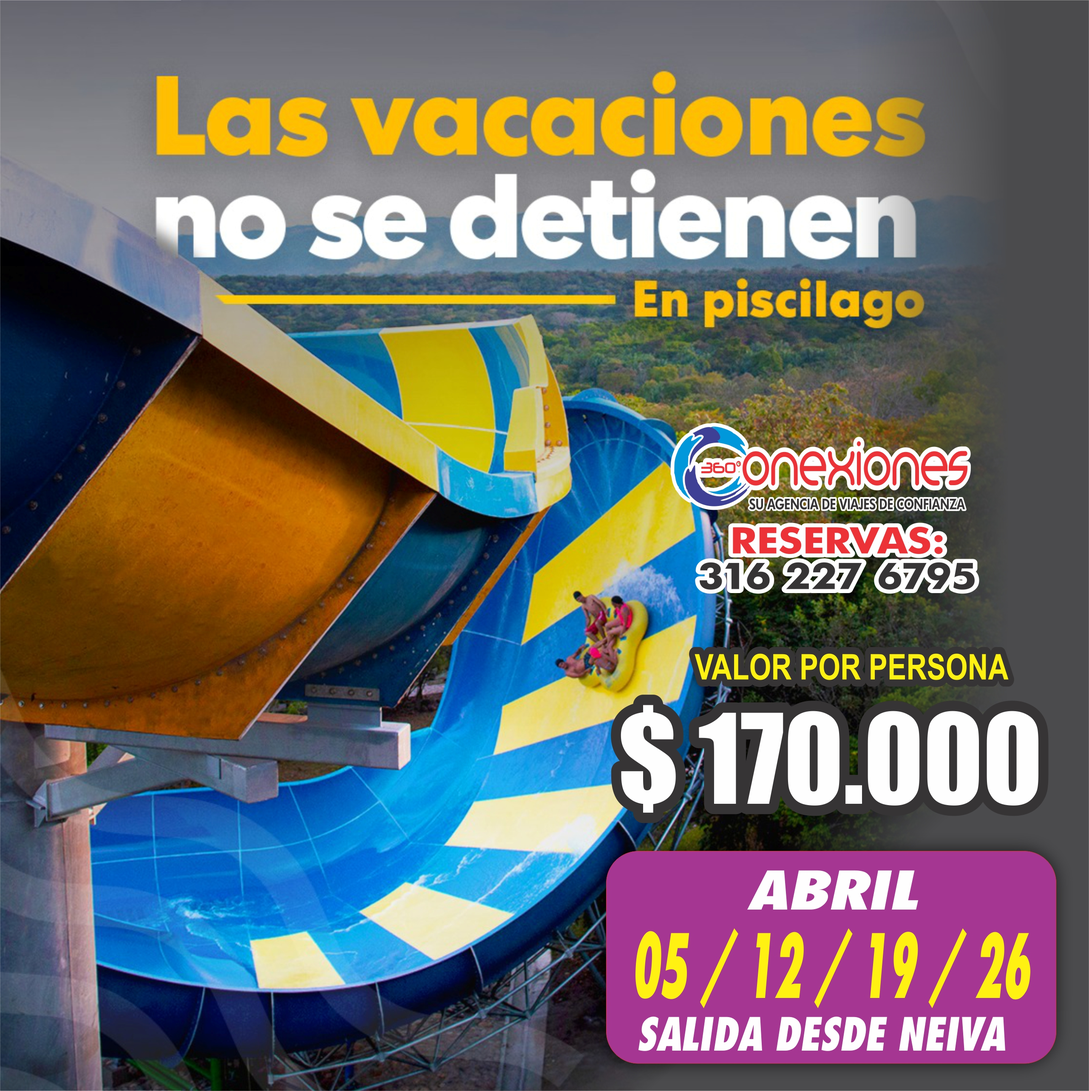
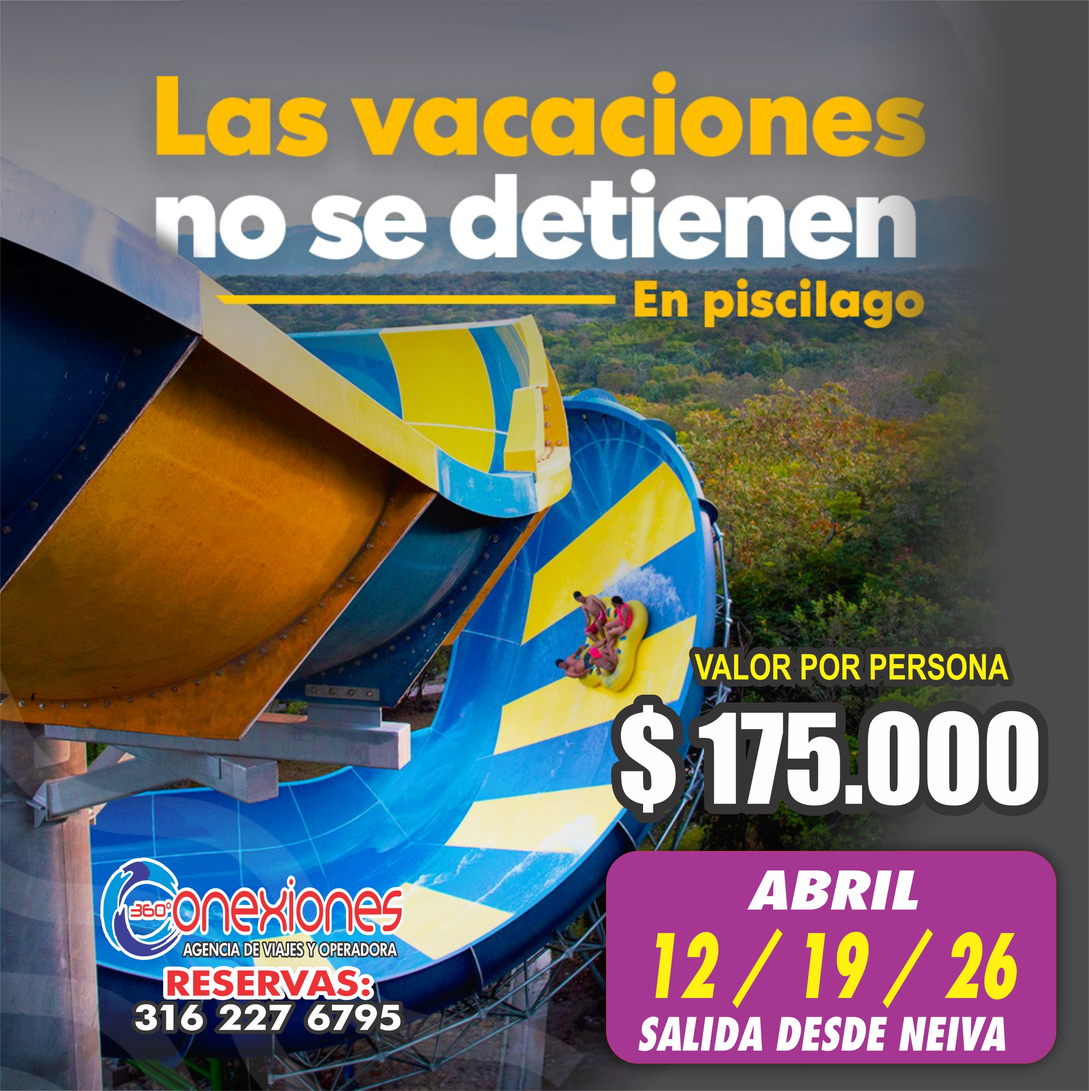
abril correcciones v200226

diff --git a/src/data/flyers/flyers.ts b/src/data/flyers/flyers.ts
@@ -372,12 +372,11 @@ export const flyers: FlyerPlan[] = [
     tipo: "terrestre",
     titulo: "Piscilago Pasadía",
     fechas: [
-      "Abril 1",
-      "Abril 15",
-      "Abril 22",
-      "Abril 29",
+      "Abril 12",
+      "Abril 19",
+      "Abril 26",
     ],
-    precio: 170000,
+    precio: 175000,
     imagen: "/Abril2026/piscilago.jpg",
     whatsappBase:
       "Hola Conexiones360, quiero información del plan Piscilago",
@@ -410,10 +409,21 @@ export const flyers: FlyerPlan[] = [
     tipo: "terrestre",
     titulo: "Playa Hawai 2X",
     fechas: ["Abril 12"],
-    precio: 290000,
+    precio: 330000,
     imagen: "/Abril2026/playahawai.jpg",
     whatsappBase:
       "Hola Conexiones360, quiero información del plan Playa Hawai",
+  },
+          {
+    id: "cafam-abril",
+    mes: "abril",
+    tipo: "terrestre",
+    titulo: "Cafam Melgar",
+    fechas: ["Abril 12"],
+    precio: 175000,
+    imagen: "/Abril2026/cafam.jpg",
+    whatsappBase:
+      "Hola Conexiones360, quiero información del plan Cafam Melgar",
   },
             {
     id: "parquejaimeduque-abril",
